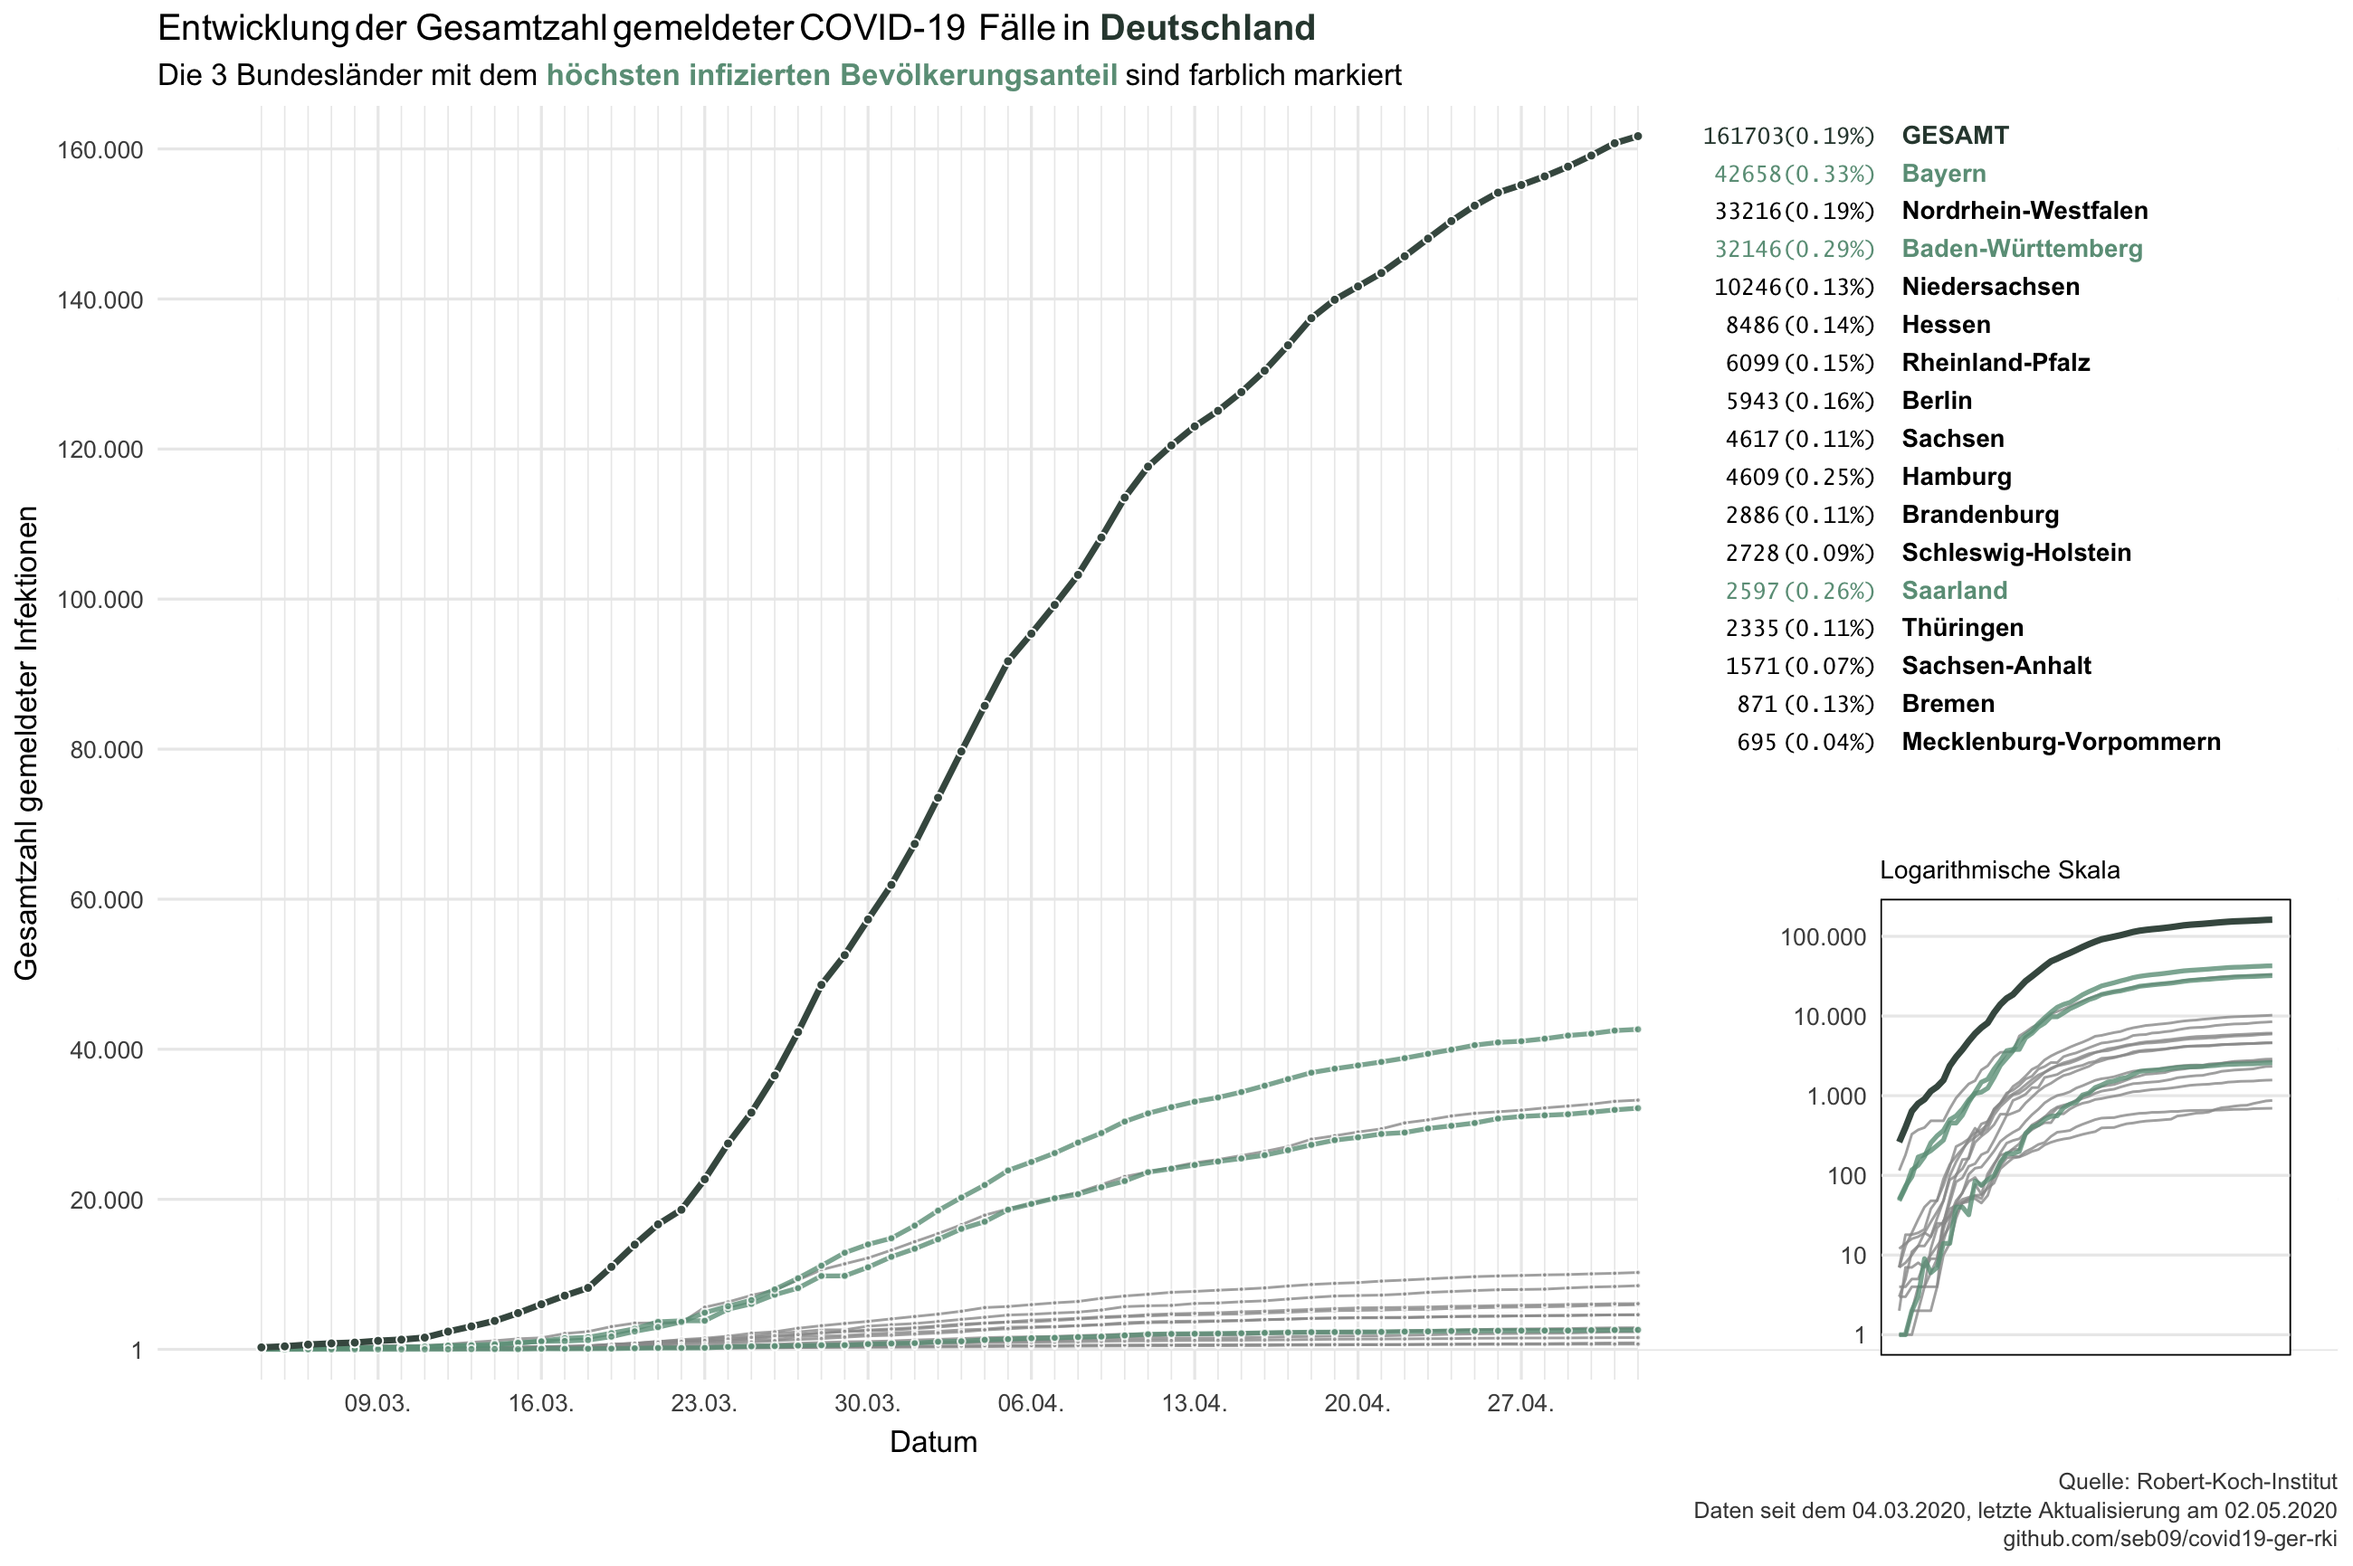
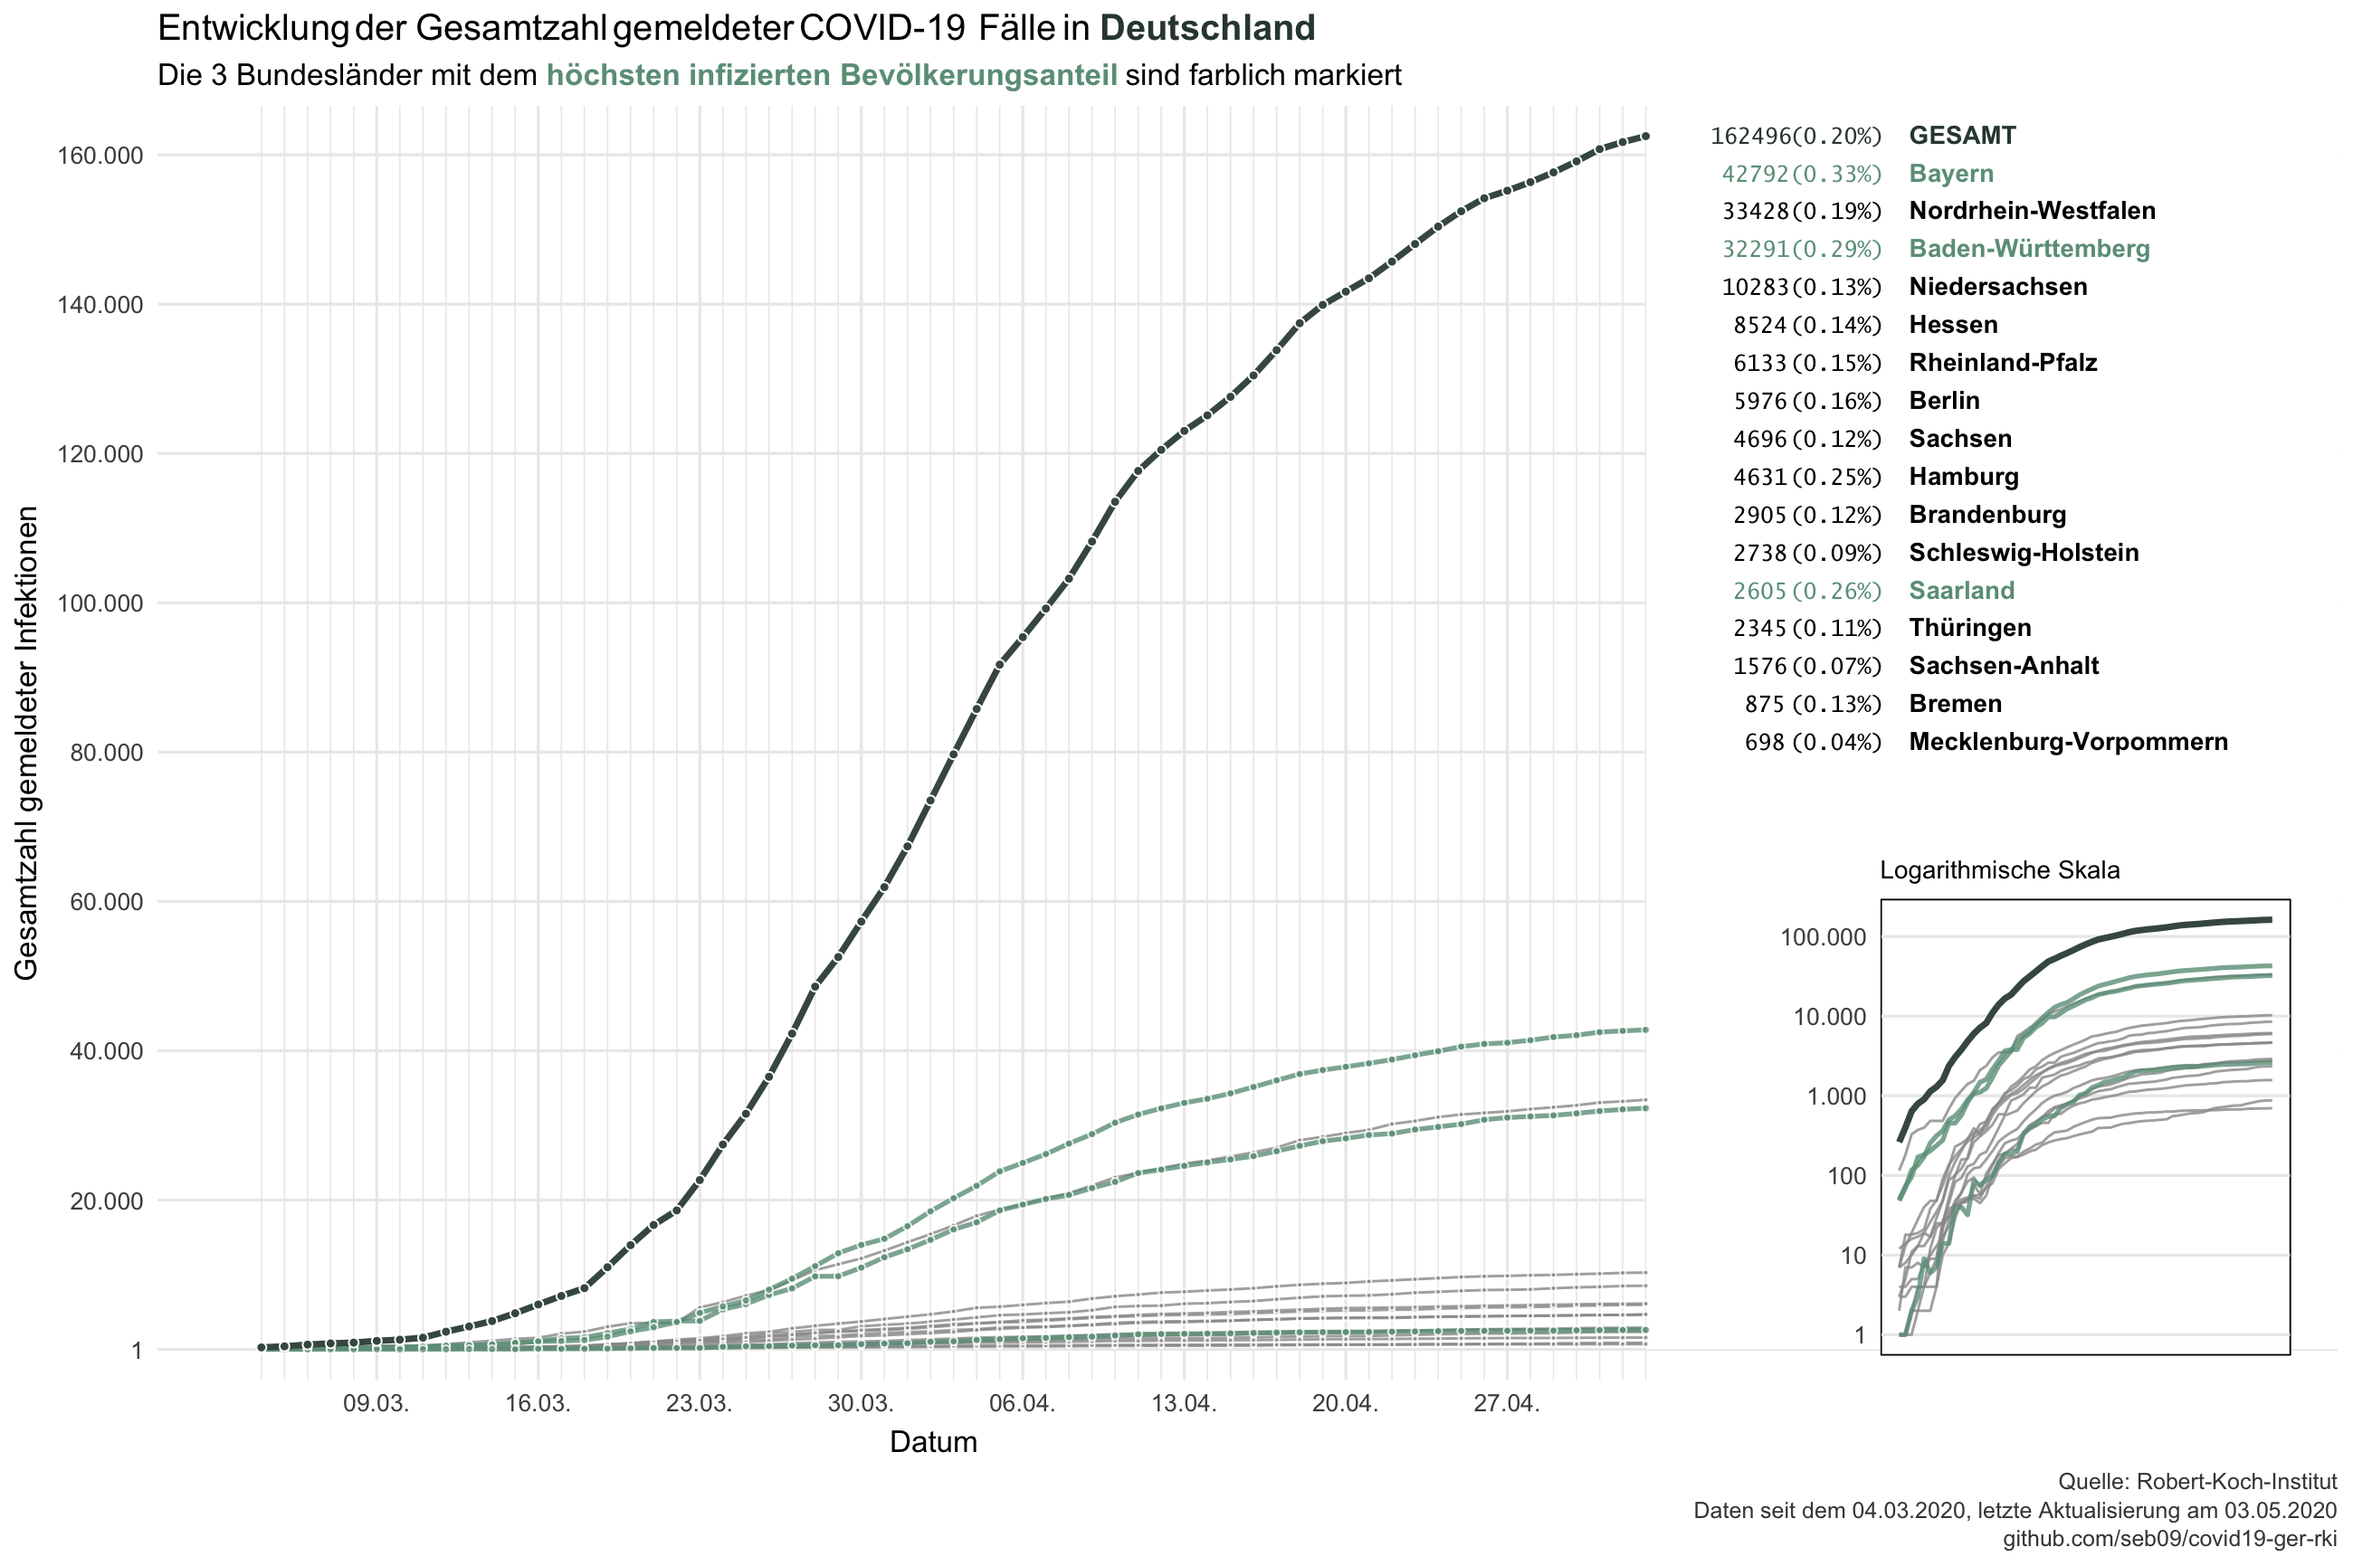
daily update 2020-05-03

diff --git a/README.md b/README.md
@@ -1,6 +1,6 @@
 Data from the Robert-Koch-Institut on COVID-19 in Germany
 ================
-Last update: 2020-05-02
+Last update: 2020-05-03
 
 This repository contains data on reported COVID-19 cases in Germany and
 its federal states that is published daily by the Robert-Koch-Institut
@@ -14,26 +14,26 @@ corona_rki %>%
   print(n = 16)
 ```
 
-    ## # A tibble: 954 x 6
+    ## # A tibble: 970 x 6
     ##    Datum      Bundesland      Fallzahl Todeszahl Fallzahl_neu Todeszahl_neu
     ##    <date>     <chr>              <dbl>     <dbl>        <dbl>         <dbl>
-    ##  1 2020-05-02 Baden-Württemb…    32146      1402          227            17
-    ##  2 2020-05-02 Bayern             42658      1885          169            35
-    ##  3 2020-05-02 Berlin              5943       152           56             3
-    ##  4 2020-05-02 Brandenburg         2886       122           14             2
-    ##  5 2020-05-02 Bremen               871        30           12             0
-    ##  6 2020-05-02 Hamburg             4609       163            5             0
-    ##  7 2020-05-02 Hessen              8486       364          110             4
-    ##  8 2020-05-02 Mecklenburg-Vo…      695        18            2             0
-    ##  9 2020-05-02 Niedersachsen      10246       451          105            22
-    ## 10 2020-05-02 Nordrhein-West…    33216      1268          158             7
-    ## 11 2020-05-02 Rheinland-Pfalz     6099       173           13             1
-    ## 12 2020-05-02 Saarland            2597       135           16             0
-    ## 13 2020-05-02 Sachsen             4617       163           25             1
-    ## 14 2020-05-02 Sachsen-Anhalt      1571        44            7             0
-    ## 15 2020-05-02 Schleswig-Hols…     2728       112           14             2
-    ## 16 2020-05-02 Thüringen           2335        93           12             0
-    ## # … with 938 more rows
+    ##  1 2020-05-03 Baden-Württemb…    32291      1412          145            10
+    ##  2 2020-05-03 Bayern             42792      1910          134            25
+    ##  3 2020-05-03 Berlin              5976       154           33             2
+    ##  4 2020-05-03 Brandenburg         2905       122           19             0
+    ##  5 2020-05-03 Bremen               875        30            4             0
+    ##  6 2020-05-03 Hamburg             4631       164           22             1
+    ##  7 2020-05-03 Hessen              8524       370           38             6
+    ##  8 2020-05-03 Mecklenburg-Vo…      698        18            3             0
+    ##  9 2020-05-03 Niedersachsen      10283       453           37             2
+    ## 10 2020-05-03 Nordrhein-West…    33428      1287          212            19
+    ## 11 2020-05-03 Rheinland-Pfalz     6133       176           34             3
+    ## 12 2020-05-03 Saarland            2605       138            8             3
+    ## 13 2020-05-03 Sachsen             4696       165           79             2
+    ## 14 2020-05-03 Sachsen-Anhalt      1576        44            5             0
+    ## 15 2020-05-03 Schleswig-Hols…     2738       113           10             1
+    ## 16 2020-05-03 Thüringen           2345        93           10             0
+    ## # … with 954 more rows
 
 Data is downloaded each day at 11am from the [website of the
 RKI](https://www.rki.de/DE/Content/InfAZ/N/Neuartiges_Coronavirus/Fallzahlen.html)
@@ -82,17 +82,17 @@ welcome to use them.
 
 -----
 
-<img src="plots/covid19-deu-rki-entwicklung.png">
-
-[Full
-size](https://github.com/seb09/covid19-ger-rki/raw/master/plots/covid19-deu-rki-entwicklung.png)
-
------
-
 <img src="plots/covid19-deu-rki-entwicklung-original-skala.png">
 
 [Full
 size](https://github.com/seb09/covid19-ger-rki/raw/master/plots/covid19-deu-rki-entwicklung-original-skala.png)
+
+-----
+
+<img src="plots/covid19-deu-rki-entwicklung.png">
+
+[Full
+size](https://github.com/seb09/covid19-ger-rki/raw/master/plots/covid19-deu-rki-entwicklung.png)
 
 -----
 
